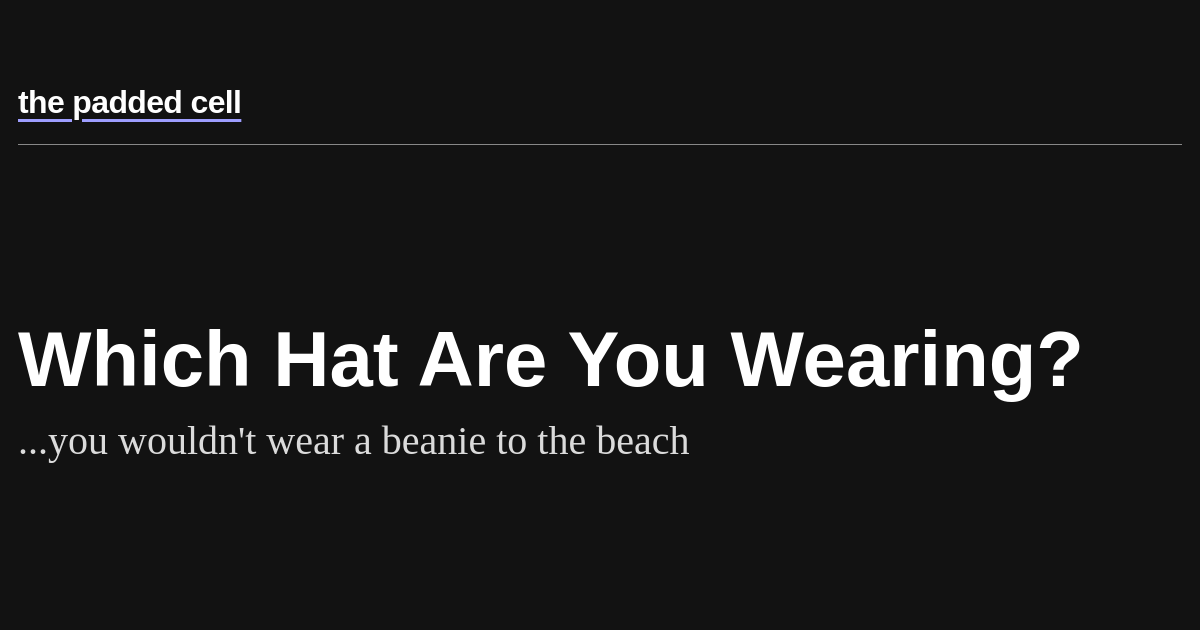
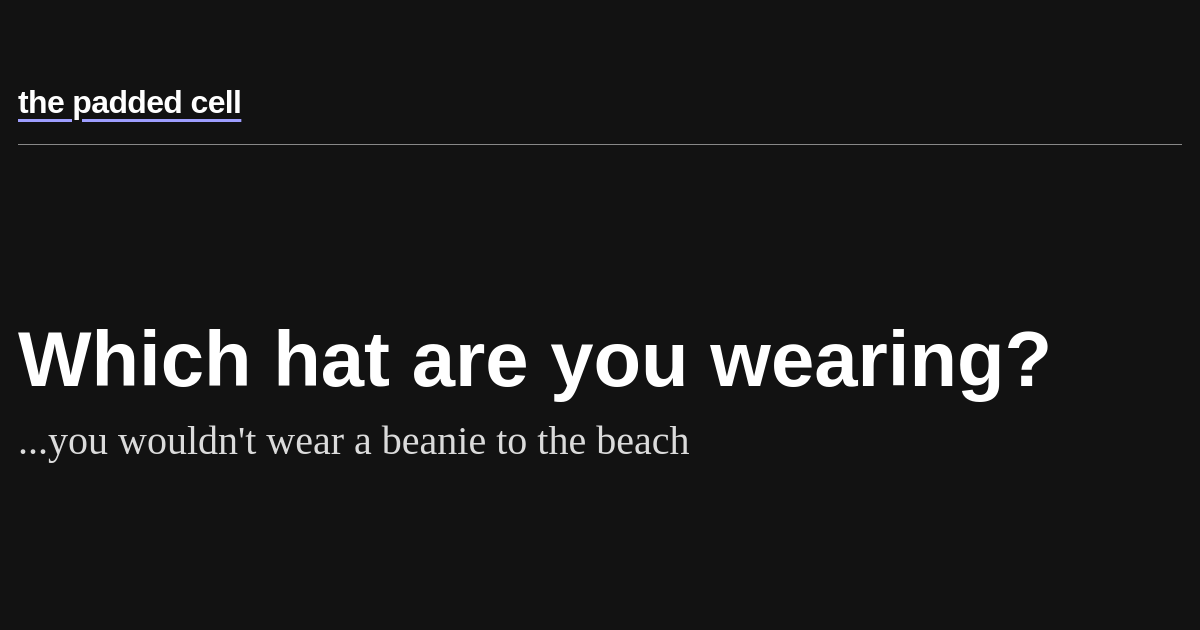
De-title case
Feels too stiff

Changed region(s): [[0.2158, 0.5127, 0.925, 0.6333]]

diff --git a/content/blog/2025-07-which-hats-are-you-wearing.md b/content/blog/2025-07-which-hats-are-you-wearing.md
@@ -2,7 +2,7 @@
 author: 'björn'
 date: '2025-07-12T15:06:00+08:00'
 lastmod: '2025-07-12T15:06:00+08:00'
-title: Which Hat Are You Wearing?
+title: Which hat are you wearing?
 subtitle: ...you wouldn't wear a beanie to the beach
 tags:
   - production
@@ -23,7 +23,7 @@ And there's something to this, right? Like in my own role as a principal enginee
 
 But, I have been wondering: what is your role and what is your ownership? What is it that you individually provide to whatever work you're doing? And is it always the same hat?
 
-## The Hat You Don't Know You're Wearing
+## The hat you don't know you're wearing
 
 I think your hat changes depending on the role you're fulfilling at the moment. When you're working as a software engineer, you wear an engineering hat where you think about the feasibility of what you're building, like, can I maintain this thing long term, how far will it scale, and how testable is this design?
 
@@ -41,7 +41,7 @@ Where I work today, we have some 250 backend components. We can test all we want
 
 The point and our challenge in mindset is: when we're taking things into production, we're not wearing the hat of the product engineer anymore. We're taking on the role of production's guardian, and we're shepherding changes safely into production.
 
-## It's Like Vim Modes, But for Work
+## It's like Vim modes, but for work
 
 Say whatever you want about Vim, but one really nice thing is that it's modal. The idea that I'm now doing this thing (inserting or editing text), and now I'm doing this other thing (normal or moving and transforming), and you behave differently in those modes.
 
@@ -51,7 +51,7 @@ It's like TDD in a way. When you're red, you rush towards green by just getting 
 
 We need to be more intentional about which hat we're wearing at the moment.
 
-## Becoming the Character
+## Becoming the character
 
 I saw this story about Christian Bale recently (and look, I can't find the original source, so this might be one of those stories that's too good to fact-check, but it perfectly captures what I'm talking about). He's a famous [method actor](https://en.wikipedia.org/wiki/Method_acting), someone who becomes their characters completely. Apparently, when he wasn't getting much work, he dreaded having to read through his insurance contract and have that conversation because it was boring.
 
@@ -59,7 +59,7 @@ But then he decided: if I were a character who really cared about understanding 
 
 And that's the thing, we kind of need to do this throughout our day. When you're taking something live, you're not the "ship fast" product engineer anymore. You have the right to say no, the right to say this has to be done slower because of these risks. Your responsibility is to make sure production is stable and things will continue to work.
 
-## The $9,999 Skill
+## The $9,999 skill
 
 There's this [great story about Charles Steinmetz](https://www.smithsonianmag.com/history/charles-proteus-steinmetz-the-wizard-of-schenectady-51912022/) and Henry Ford. Ford's engineers couldn't fix a generator problem, so they called in Steinmetz. He spent two days just listening to the generator and scribbling calculations. Then he climbed up, made a chalk mark, and told them to replace sixteen windings at that exact spot. It worked perfectly.
 
@@ -91,7 +91,7 @@ Planner
 
 So here's what I've been trying to do, or rather, what I should start doing: be explicit about which hat I'm wearing. Right now I say things like "okay, from a stability POV" before raising concerns about deployment risks. But I should actually say, "let me put on my **production guardian hat** for a second." It helps others understand which perspective I'm bringing, and it helps me focus on what matters for that role.
 
-## Tying It On
+## Tying it on
 
 I think there's more to the hats we wear throughout the day because it's not just at work: supporting partner, fun uncle, mentor, learner. Each comes with different expectations, powers, and responsibilities.
 
